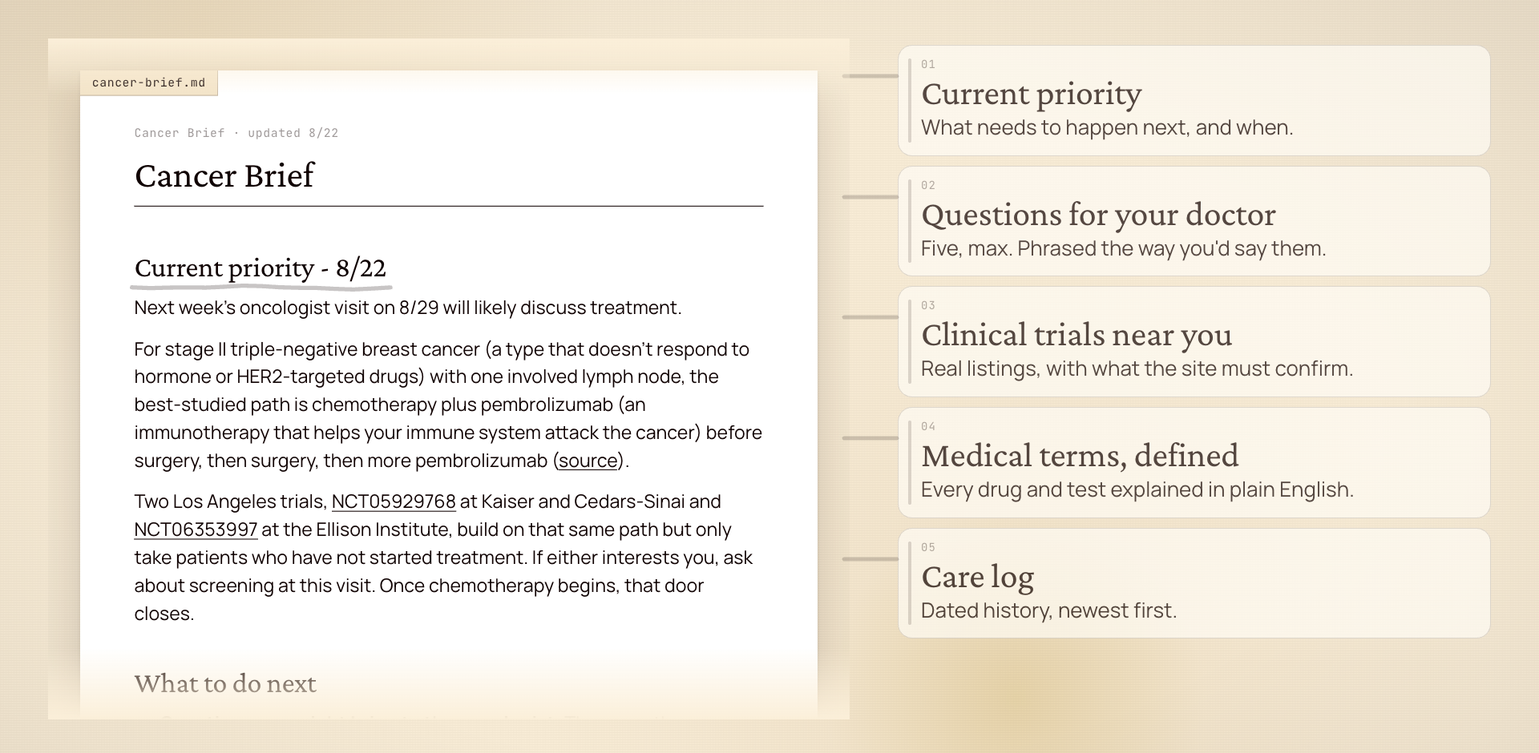
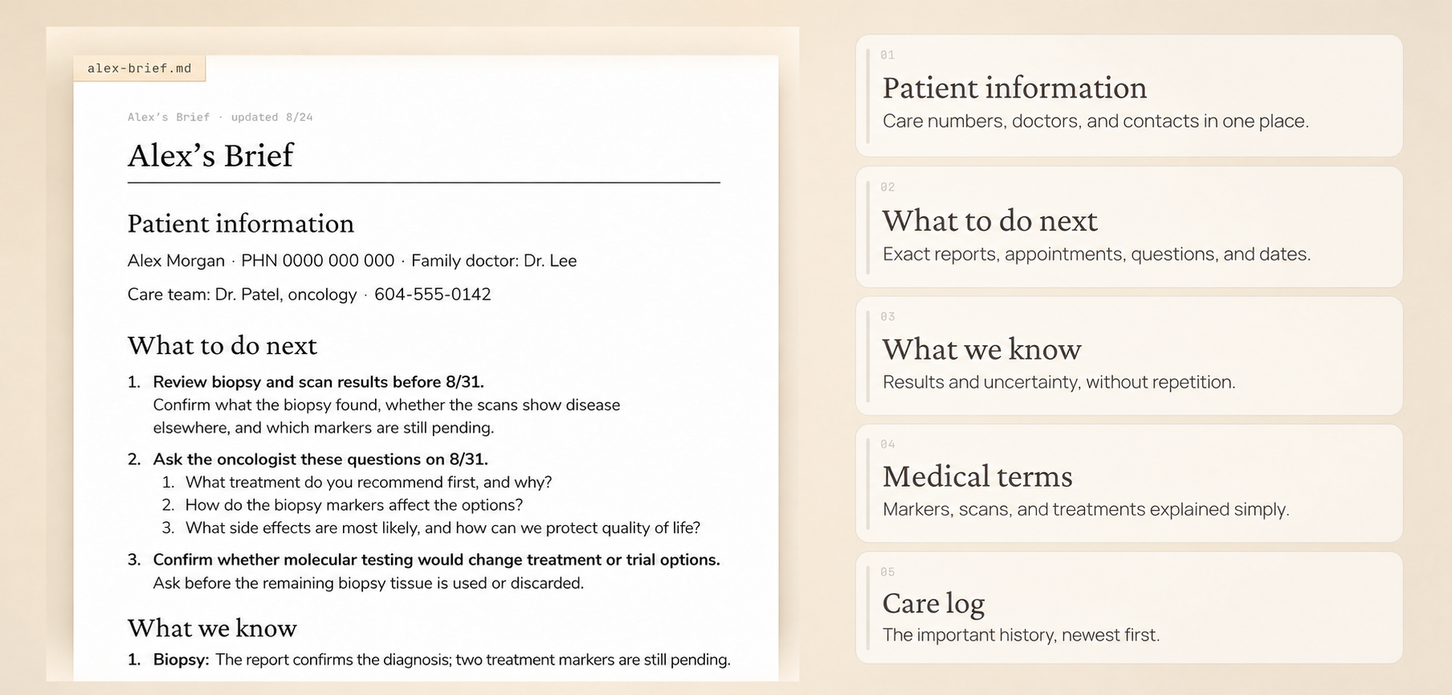
Tighten family medical brief skill

diff --git a/skills/fuck-cancer/SKILL.md b/skills/fuck-cancer/SKILL.md
@@ -1,138 +1,110 @@
 ---
 name: fuck-cancer
-description: Create and keep updating a linked family cancer brief from reports, notes, or partial information. Use for a new diagnosis, active workup, treatment decision, recurrence, appointment prep, clinical trials, second opinions, or any meaningful update during cancer care.
+description: Create and maintain one family medical brief from reports, notes, or partial information. Use for an active cancer workup, treatment decision, recurrence, appointment preparation, trials, second opinions, or meaningful care updates.
 ---
 
 # Fuck Cancer
 
-Help the patient or caregiver feel less alone, understand what is happening, and take the next useful step. Support medical decisions with current evidence without making the decision for them.
+Help a patient or caregiver understand what is happening and take the next useful step. Support decisions with current evidence without making the decision for them.
 
-## Create the living brief right away
+## Keep one living brief
 
-The input can be one sentence, a brain dump, reports, screenshots, or scattered updates. The output is one living Markdown brief that gives the family a clear current picture, next steps, and care log.
+Turn a sentence, brain dump, report, screenshot, or scattered update into one source-of-truth brief with patient information, next steps, key facts, and a care log. Read all supplied material before responding.
 
-Create the brief in the first response after the user shares any substantive medical information. Do not wait for a complete pathology report, staging workup, appointment date, or answers to follow-up questions. Write what is known, label unknown details as `Unknown - ask the care team` or `Pending`, and turn the most important gaps into next steps.
+Use the destination the user names. At the start of later turns, read that source of truth before proposing or making changes. Never create a second tracker.
 
-Save it as `brief.md` in the current workspace unless an existing brief is already present. At the start of each later turn, read the current brief, update that same file with every meaningful new detail, and include a clickable file link in the response. In chat, give a short, caring summary of what changed and the immediate next step. Do not make the family reconstruct the case from a string of chat replies.
+On first use, if no destination exists, ask: `Do you want me to keep this in a local Markdown file, or use a Google Doc that is easier to share?` Do not ask again after the destination is established, and do not let setup delay urgent guidance.
 
-If the environment cannot create a file, return the full brief in chat, explain that it could not be saved, and keep updating the full brief in later replies.
+- **Local Markdown:** Create or reuse `brief.md` in the current workspace.
+- **Google Docs:** Ask for an existing Doc or offer to create one. Use the connected Google Drive or Docs tool. If it is unavailable, ask the user to enable it; do not create a local fallback.
+- **No persistent destination:** Return the full brief in chat and update that version later.
 
-## Start with the brain dump
+If the user wants approval first, show the exact proposed changes and wait. After an authorized edit, read the saved destination back, link it, state what changed, and name the immediate next step.
 
-Let the user share information in whatever form is easiest: a brain dump, pasted text, uploaded reports, scattered notes, or a simple sentence such as “My dad was just diagnosed.” Read everything before responding.
+## Workflow
 
-Do not present a long intake form. Ask only the few follow-up questions whose answers could materially change the immediate explanation, research, or next step. Put those questions in the brief rather than making the user answer them before the brief exists. If the user is overwhelmed, work with what they have and name what would be useful later.
+1. Identify whether the user is the patient or caregiver. Do not assume the caregiver is the patient.
+2. Establish the current medical picture from the newest reports. Treat older diagnoses, biomarkers, and treatments as history unless the current record confirms them.
+3. Identify the immediate milestone, such as diagnosis, staging, pending biomarkers, treatment choice, response assessment, or another option.
+4. Explain the relevant findings in plain language. Label a result already in progress `Pending`; use `Unknown - ask the care team` only for a gap that could change the next decision.
+5. Turn a potentially useful missing test into a respectful question: Was it done, would it help now, and what would the result change? Do not present it as an error or requirement.
+6. Research only what helps with the current decision, then update the brief and care log.
 
-Notice whether you are speaking to the patient or someone supporting them. Do not assume the caregiver is the patient.
-
-## Work through the situation
-
-1. Establish the current medical picture from the newest available reports. Treat older diagnoses, biomarkers, and treatments as history unless the current record confirms they still apply.
-2. Identify the immediate decision or milestone, such as confirming the diagnosis, completing staging, receiving pending biomarkers, choosing treatment, assessing response, or considering another option.
-3. Explain the relevant findings in plain language. State uncertainty naturally where it matters.
-4. Notice what is missing as well as what is present. When a test that commonly informs treatment for this cancer type does not appear in the records, such as a fuller biomarker panel, molecular profiling, or inherited genetic testing, turn it into a question for the care team: was it done, is it worth doing, and what would the result change. Do not present a missing test as an error or claim it is required.
-5. Research only what is useful for the current decision. Browse current sources for treatment, biomarker, trial, specialist, or guideline questions.
-6. Create or update the living brief below. Add decision-relevant milestones to its care log and tell the user what changed.
+Do not give the user a long intake form. Ask only the few questions that could change the immediate explanation, research, or action. Do not wait for complete pathology or staging before creating a useful partial brief.
 
 ## Research current options
 
-Use this source order so the brief does not rely on random medical pages:
+Use sources in this order:
 
-1. Start with current evidence summaries or guidance from an official national cancer agency relevant to the patient's country. NCI's PDQ is the preferred public backbone when no better local source exists, but describe it accurately as an evidence summary rather than a clinical guideline.
-2. Verify drug approval, indication, and labeling with the patient's national regulator, such as the FDA, Health Canada, EMA, MHRA, or TGA. Regulatory approval shows what is authorized; it does not establish the best treatment for one patient.
-3. Use current official publications from relevant professional bodies, such as ASCO, ESMO, CAP, or NICE, when they directly answer the question and are lawfully accessible.
-4. Use peer-reviewed primary research indexed in PubMed for unresolved or emerging questions. Explain when evidence is early, indirect, or from a different disease setting.
-5. Use major academic cancer-center pages for their own services, specialists, or trials, not as the main authority for general treatment claims.
+1. The patient's national cancer agency. Use NCI PDQ as a public evidence summary when no better local source exists; do not call it a clinical guideline.
+2. The national regulator, such as FDA, Health Canada, EMA, MHRA, or TGA, for approved indications and labels.
+3. Current official guidance from bodies such as ASCO, ESMO, CAP, or NICE.
+4. Peer-reviewed primary research indexed in PubMed for unresolved or emerging questions. Label early, indirect, or different-setting evidence.
+5. Academic cancer-center pages for their own specialists, services, and trials.
 
-Do not cite search snippets, SEO health sites, unsourced summaries, social posts, or AI-generated medical pages. Do not use or redistribute unofficial copies of copyrighted resources such as UpToDate or NCCN. If the user provides an authorized copy, treat it as user-supplied evidence and identify its date.
+Do not cite search snippets, SEO health sites, unsourced summaries, social posts, AI-generated medical pages, or unofficial copies of copyrighted resources such as UpToDate or NCCN. Treat an authorized user-supplied copy as evidence and state its date.
 
-Use the NCI Dictionary of Cancer Terms or an equivalent official national source for definitions. For a specific molecular variant, CIViC may supplement the official sources, but identify it as a community-curated knowledgebase and never use it alone to determine treatment or trial eligibility.
+Use an official cancer dictionary for definitions. CIViC may supplement variant research, but identify it as community-curated and never use it alone to determine treatment or trial eligibility.
 
-Relate every option to the patient's cancer type, stage, biomarkers, prior treatment, health, country, and goals when known. Distinguish evidence from another cancer type or treatment setting. Present a concise numbered list: each item starts with a bold stem and continues with two or three sentences covering why it may matter, the main tradeoff, and what the care team must confirm. Do not recommend a treatment as the answer.
+Relate every option to the known cancer type, stage, biomarkers, prior treatment, health, country, and goals. Present a concise numbered list. Each item gets a bold stem and two or three sentences covering why it may matter, the main tradeoff, and what the care team must confirm. Do not declare one treatment the answer.
 
-## Find clinical trials
+### Clinical trials
 
-Use the official ClinicalTrials.gov API rather than search snippets. Run the bundled helper from this skill's folder (`scripts/search_trials.py` next to this file). It accepts common U.S. and Canadian location abbreviations and orders matches by the supplied condition and terms, treatment focus, phase, recruitment status, and recency.
+Use the official ClinicalTrials.gov API through the bundled helper:
 
     python3 scripts/search_trials.py --condition "Cancer type" --terms "stage, biomarker, or treatment setting" --country "Country" [--state "State or province"] [--near LAT,LON --radius-miles 50]
 
-When the user gives a home city, pass its coordinates with `--near` instead of `--city`. City matching is exact, so "Los Angeles" would drop a site in Pasadena; `--near` keeps every site within the radius and reports each site's distance. The script previews long eligibility criteria (rerun with `--full-criteria` for the full text) and labels each site's recruitment status, including sites whose status the record does not list. Read the labels rather than treating every result as an open door.
+When a home city is known, use its coordinates with `--near`; exact city matching can miss nearby sites. Rerun with `--full-criteria` only when the preview is insufficient.
 
-1. Search with the diagnosis, stage or treatment setting, biomarkers, prior treatments, and realistic location when known.
-2. Check both the study's overall status and the individual site's status.
-3. Read the actual eligibility criteria. A keyword match does not show that the patient qualifies.
-4. Return three to five candidates at most, prioritized by likely relevance and practical access.
-5. For each candidate, give the NCT number and link, intervention, phase, nearest open sites, why it may fit, and the key eligibility questions still to confirm, within the three-sentence cap described under Write the brief.
-6. Compare a trial with available standard care and mention meaningful travel, visit, cost, or randomization burdens when the record provides them.
+Check the study status, the specific site's status, and the eligibility criteria. Return three to five candidates at most. For each, include the linked NCT number, intervention, phase, nearest open site, why it may fit, and what the site must confirm. Compare the trial with available standard care and mention meaningful travel, visit, cost, or randomization burdens when known. Never claim eligibility.
 
-## Find a second opinion
+### Second opinions and practical support
 
-Return no more than three best-fit options. Match the center or specialist to the exact cancer type, disease setting, procedure, biomarker, or trial need; do not rank by reputation alone. Include why each fits, whether remote review is available, how to request it, expected records, and practical timing or cost when available. Distinguish a pathology review from a treatment-plan opinion.
-
-## Find practical support
-
-Research practical support only when the user asks or it could remove an immediate burden. Return no more than three current, local options for needs such as patient or caregiver support, transportation, meals, lodging, financial or insurance navigation, or household help. Start with official cancer agencies, the treating center, government programs, and established nonprofits; verify who the service is for, location limits, cost, and how to request help.
+Return no more than three best-fit options. Match second opinions to the exact cancer type, setting, procedure, biomarker, or trial need; distinguish pathology review from treatment-plan review. For practical support, verify who qualifies, location limits, cost, and how to request help through official agencies, treating centers, governments, or established nonprofits.
 
 ## Write the brief
 
-Use these four sections in order. A partial brief is useful: never delay it because information or research is incomplete. Use `Unknown - ask the care team` for a meaningful gap and `Pending` for a result already in progress. Do not fill the brief with empty fields; include only unknowns that could change the next decision.
+Title it `<First name>’s Brief`. Do not put `cancer`, a diagnosis, or alarming language in the title unless the user asks.
 
-Start at Current priority by default. Add at most one plain opening sentence when it helps the family feel seen or absorb a hard result. Keep it specific to what they shared. Do not manufacture praise or reassurance.
+Use these sections in order. Include only useful content; do not fill the brief with empty fields.
 
-### Current priority
+### Patient information
 
-Put the brief's date in the heading: `#### Current priority - 8/22`. Open with one sentence naming the next concrete event and its date ("Next week's oncologist visit on 8/29 will likely discuss treatment."). Then two short paragraphs: the decision in front of the family and the best-studied path for it, followed by timing: what closes, what is time-sensitive, and the specific trials or options by name. Never write "two trials" without naming them.
+Put essential care-coordination details first: patient facts, medical or insurance numbers, family doctor, current care team, and important contacts. Keep appointments, scans, and deadlines in `What to do next`; do not create another contacts section.
 
 ### What to do next
 
-A numbered list in priority order with no more than three items. Each item starts with a bold stem and has two or three sentences. Use numbered sublists for details; never use bullets in the brief.
+Use a numbered list with no more than three priority actions. Start each with a specific bold stem and name the report, test, appointment, clinician, or date: `Review biopsy and scan results before 8/31`, not `Review results`.
 
-Include only useful actions now: appointment questions, missing tests or records, current options, clinical trials, up to three second opinions, or practical support that removes an immediate burden.
+Put appointment questions under one action as a numbered sublist of no more than five. Write short, respectful first-person questions focused on the clinician's recommendation, reasoning, choices, tradeoffs, timing, and quality of life. Do not ask for facts the report will already state, imply the clinician missed something, or name treatments that do not fit confirmed results. Phrase a possible referral as `Would it be useful to involve...`
 
-When the brief includes appointment questions, make them one item with a numbered sublist of no more than five questions, phrased as suggestions the user can pick from ("Questions you might bring to the oncologist"). Write each question the way the patient would say it out loud, short and in first person: "I found two trials that might be relevant, NCT05929768 and NCT06353997. Is it worth screening for these?" Do not tell the user they are entitled to answers or that good teams expect the list; keep the tone of an offer.
-
-Cap each trial candidate at three sentences: what it tests and where it is open, why it may fit, and what the site must confirm. Trials that enroll only at a later stage get one shared sentence telling the family when to revisit them. If trials may matter but the pathology, stage, biomarkers, or treatment history are not specific enough, include **Relevant clinical trials** as an item and say exactly what is needed before rerunning `/fuck-cancer`.
+Include trials, second opinions, or practical support only when they create a useful current action. If trials may matter but key pathology, stage, biomarkers, or treatment history are missing, state exactly what is needed before rerunning `/fuck-cancer`.
 
 ### What we know
 
-A numbered list of bold-stem items with two or three sentences each. Combine the finding, its meaning, and meaningful uncertainty rather than forcing separate labels.
+Use a concise numbered list with bold stems. Combine each finding, its meaning, and meaningful uncertainty in one or two sentences. Fold pending information into the related finding or action instead of creating a useless standalone bullet. Keep definitions out of this section.
 
-When several biomarkers or staging terms matter, use a nested numbered list under **Medical terms that might affect treatment**. For each term, give the general meaning in a few words, then tie it to this patient's own result ("Your report is negative on both, so hormone-blocking pills won't help this cancer"). Say which treatment category it may open or rule out without claiming the treatment is right for this patient. Keep each entry to two or three sentences.
+### Medical terms
+
+Use this optional section when several biomarkers, tests, or staging terms need explanation. Define each in one or two short sentences, then connect it to the patient's confirmed result and the treatment category it may affect. Use a brief parenthetical earlier only when the reader must understand the term immediately; do not define the same term twice.
 
 ### Care log
 
-A numbered list, newest first, with dates written as `M/D` (add the year only when the log spans more than one). Write each entry as `**8/15:** what happened and what changed.` Include the date the brief was created or updated as its own entry with the open questions at that point. Include only milestones that help the family understand decisions, and never invent a date.
+Use a numbered list, newest first. Use `M/D` for current-year events and the year alone for older history when the exact date does not matter. Include only decision-relevant milestones and never invent a date. Keep exploratory conversations, personalized-vaccine ideas, and other experimental possibilities here unless they create a current action.
 
-## Explain terms where they appear
+## Sources and tone
 
-The first time any drug, test, or medical term appears anywhere in the brief, add a few-word explainer in parentheses: "pembrolizumab (an immunotherapy that helps the immune system attack the cancer)", "olaparib (a daily pill that blocks DNA repair in BRCA-related cancers)". Do not rely on a link or a later definition; the reader should never have to leave the page to understand a sentence. Keep the explainers short and plain.
+Put sources inline. Link every NCT number and place a short official source link after each treatment or evidence claim. Do not add a reference section, research date, or disclaimer to the brief.
 
-Do not add a sources footer, research date, or disclaimer to the brief. Put sources inline instead: link every NCT number wherever it appears, and end any standard-of-care or evidence claim with a short `([source](url))` link to the official page it came from.
+Write like a calm person who has read everything. Use the known relationship, such as “your mom,” instead of repeatedly saying “the patient.” Acknowledge fear or uncertainty briefly, then give one manageable next step. Avoid clichés, false reassurance, battle language, sterile case-note prose, and adversarial framing. Explain terms without talking down to the reader.
 
-## Share the brief
-
-The canonical output is one local Markdown file. Create it on the first substantive medical turn, update the same file throughout the conversation, and link it every time. Do not create multiple trackers or supporting files. Keep the chat response short: what changed, what matters now, and the brief link.
-
-Offer Google Docs only as an optional sharing destination. Create or update a Google Doc only when a connected tool is available and the user explicitly authorizes sharing the medical information. Browser automation may be used only when the user explicitly requests it and is already signed in; do not promise it as a portable skill capability. Do not create HTML unless the user asks for it.
-
-## Be encouraging and practical
-
-Write like a calm, caring person who has read everything and is sitting next to them. Be precise without sounding like a case note. Use the person's relationship when known, such as “your mom,” instead of repeatedly saying “the patient.” Respond to fear, anger, exhaustion, or uncertainty before moving into facts, then give one manageable next step.
-
-- Acknowledge fear, anger, exhaustion, or uncertainty without dwelling on it.
-- Give the patient or caregiver credit for what they have already done.
-- Pair reassurance with a concrete next step.
-- Prefer natural language such as “This is a lot to take in” or “You do not need every answer today” when it is true. Avoid sterile transitions such as “That narrows the picture” or “The next details I need are.”
-- Normalize self-advocacy. Asking questions, requesting copies of records and pathology, and seeking a second opinion are routine parts of good cancer care. Frame them as reasonable things to bring up, and do not frame the care team as an adversary.
-- Avoid “stay positive,” inspirational clichés, false certainty, and promises that everything will be okay.
-- Do not impose battle language. Follow the patient's wording if they use it.
-- Explain terms without talking down to the user. Keep the response short enough to absorb under stress.
+Keep the chat response short: what changed, what matters now, and the brief link.
 
 ## Protect the patient
 
 - Do not diagnose cancer from symptoms, imaging, or incomplete pathology.
-- Do not choose treatment, estimate an individualized prognosis without adequate evidence, or claim trial eligibility.
-- For symptom questions, do not assign a confidence score. Use the clearest appropriate action: **Call emergency services now**, **Contact the oncology team today**, or **Discuss this at the next appointment**. Explain why without catastrophizing, follow any instructions already provided by the care team, and use current official sources when the urgency is unclear.
-- Act as a trusted personal caregiver. Names, birth dates, care card or health numbers, record numbers, and other useful details may remain in the local brief and chat. Do not put identifiers into web searches or trial API queries, and do not show privacy warnings or ask the user to redact what they share.
-- Do not edit a shared record, contact a clinician or trial, or send medical information unless the user explicitly asks.
-- Do not let additional research quietly delay urgent evaluation or time-sensitive standard care.
+- Do not choose treatment, estimate an individualized prognosis without enough evidence, or claim trial eligibility.
+- For symptom questions, use the clearest action: **Call emergency services now**, **Contact the oncology team today**, or **Discuss this at the next appointment**. Explain why without catastrophizing and follow existing care-team instructions.
+- Names and care identifiers may remain in the authorized brief and chat. Never put them into web searches or trial API queries.
+- Do not edit a shared record, contact a clinician or trial, or send medical information without explicit permission.
+- Do not let research delay urgent evaluation or time-sensitive standard care.

diff --git a/README.md b/README.md
@@ -2,27 +2,27 @@
 
 Creates a practical brief from the first details a family has, then keeps it updated as reports, appointments, and decisions arrive.
 
-https://github.com/user-attachments/assets/9fc8754f-ada3-474c-be65-d4c22f8a2262
-
 ## Problem
 
 Since I published [my mom's cancer story](https://creatoreconomy.so/p/my-mom-survived-breast-cancer-three), I’ve heard from many people supporting a loved one through cancer. Cancer casts a dark cloud over the whole family.
 
-The last thing a patient or caregiver needs is a pile of confusing medical terms, hype, and scattered information. They need clear answers to three questions: What should we do next? What are the key facts? What treatment options should we ask about?
+The last thing a patient or caregiver needs is a pile of confusing medical terms, hype, and scattered information. They need clear answers to three questions: What should we do next? What are the key facts? What should we ask the care team?
 
 ## What this skill does
 
-![Sample Cancer Brief with five callouts: current priority, questions for your doctor, clinical trials near you, medical terms defined, and a care log](assets/sample-brief.png)
+![Sample family medical brief with patient information, specific next steps, key facts, medical terms, and a compact care log](assets/sample-brief.png)
 
-This skill creates a source-of-truth brief from whatever you know now, even when most of the workup is still pending. It updates and relinks the same file as the situation changes. The brief gives you:
+This skill creates a source-of-truth brief from whatever you know now, even when most of the workup is still pending. It keeps the same destination updated as the situation changes. The brief gives you:
 
-1. **Current priority.** What needs to happen next and when, so the family knows what to focus on.
-2. **Questions for your doctor.** Five max, phrased the way you'd say them out loud.
-3. **Clinical trials near you.** Real listings pulled live from the official ClinicalTrials.gov API, with what each site must confirm.
-4. **Medical terms defined.** Every drug and test explained in plain English the first time it appears, so nobody has to leave the page to understand a sentence.
-5. **Care log.** A dated history of visits and results, newest first.
+1. **Patient information.** Essential identifiers, family doctor, care team, and contact information.
+2. **What to do next.** Up to three specific actions naming the relevant test, appointment, clinician, and date.
+3. **What we know.** The shortest useful summary of confirmed findings and meaningful uncertainty.
+4. **Medical terms.** Plain-English explanations when several markers, tests, or treatments need clarification.
+5. **Care log.** A compact history using dates such as `8/24` and years such as `2016`.
 
-The whole brief is one local Markdown file named `brief.md`: no account, no database, no API key. Unknown decision-relevant details stay visible as placeholders until the family has answers.
+Clinical trials, second opinions, and practical support appear under **What to do next** only when they are relevant.
+
+On first use, the skill asks whether to maintain the brief in a local Markdown file or a shareable Google Doc, unless a source of truth already exists. It updates only that destination and never creates a duplicate tracker.
 
 ## How to install the skill
 
@@ -74,6 +74,7 @@ The skill grounds its research in trusted medical sources:
 4. **Clinical trials:** The official [ClinicalTrials.gov API](https://clinicaltrials.gov/data-api/api), including the status of the individual site.
 5. **Medical definitions:** The [NCI Dictionary of Cancer Terms](https://www.cancer.gov/publications/dictionaries/cancer-terms/) or an equivalent official national source.
 6. **Emerging questions:** Peer-reviewed primary research indexed in PubMed, with early or indirect evidence labeled as such.
+7. **Specialists and services:** Official academic cancer-center pages for their own clinicians, programs, and trials.
 
 ## Disclaimer
 
@@ -83,11 +84,11 @@ The skill supports decisions with current evidence. It does not diagnose cancer,
 
 1. [`SKILL.md`](skills/fuck-cancer/SKILL.md) contains the complete care-navigation and research workflow.
 2. [`search_trials.py`](skills/fuck-cancer/scripts/search_trials.py) searches ClinicalTrials.gov API v2, filters sites by distance from home with `--near LAT,LON`, labels each site's recruitment status, and ranks likely matches first.
-3. [`eval.md`](skills/fuck-cancer/eval.md) checks that the skill creates, updates, and links the brief while keeping the response caring and concise.
+3. [`eval.md`](skills/fuck-cancer/eval.md) checks the destination, brief structure, action specificity, medical boundaries, and concise care-log format.
 4. [`test_search_trials.py`](tests/test_search_trials.py) covers location normalization, distance filtering, site-status handling, pagination, criteria previews, and relevance ordering.
 5. [`openai.yaml`](skills/fuck-cancer/agents/openai.yaml) contains the Codex skill metadata.
 
-The skill does not require an account, database, or API key. The trial-search helper uses only Python's standard library and requires Python 3.8 or newer.
+Local Markdown mode requires no account, database, or API key. Google Doc mode uses the user's connected Google Drive integration; if it is not connected, the skill asks the user to enable it before writing. The trial-search helper requires no API key, uses only Python's standard library, and requires Python 3.8 or newer.
 
 ## License
 

diff --git a/skills/fuck-cancer/eval.md b/skills/fuck-cancer/eval.md
@@ -2,12 +2,14 @@
 
 Before presenting the response, answer yes or no:
 
-1. Did the first substantive medical message create `brief.md`, even if key facts were unknown?
-2. Did later information update the same file rather than create a new document or remain only in chat?
-3. Does the response link the current brief and summarize what changed?
-4. Are unknown decision-relevant facts labeled `Unknown - ask the care team` or `Pending` without blocking useful guidance?
-5. Does the response sound caring and human while staying specific and concise?
-6. Did it preserve useful personal details in the local brief or chat while keeping identifiers out of external queries, without showing privacy warnings?
-7. Are medical claims and trial details sourced and bounded as required by `SKILL.md`?
+1. Did it use the designated source of truth, or ask local Markdown versus Google Doc on first use, without creating a duplicate tracker?
+2. Is the title `<First name>’s Brief`, with patient facts, family doctor, care team, and essential contacts first?
+3. Does `What to do next` follow immediately with no more than three specific, dated actions?
+4. Are appointment questions short, respectful, decision-focused, and grouped under the relevant appointment?
+5. Did it avoid redundant record-gathering tasks and standalone bullets that only say a result is pending?
+6. Is `What we know` concise, with `Medical terms` separate when needed and no duplicated definitions?
+7. Does the care log use compact dates, newest first, and keep non-actionable experimental ideas there?
+8. Are research claims sourced inline, trial-site status checked, and medical conclusions properly bounded?
+9. After an authorized external edit, did it read back the saved destination, link it, and report the immediate next step?
 
 The output passes only when all applicable answers are yes.
